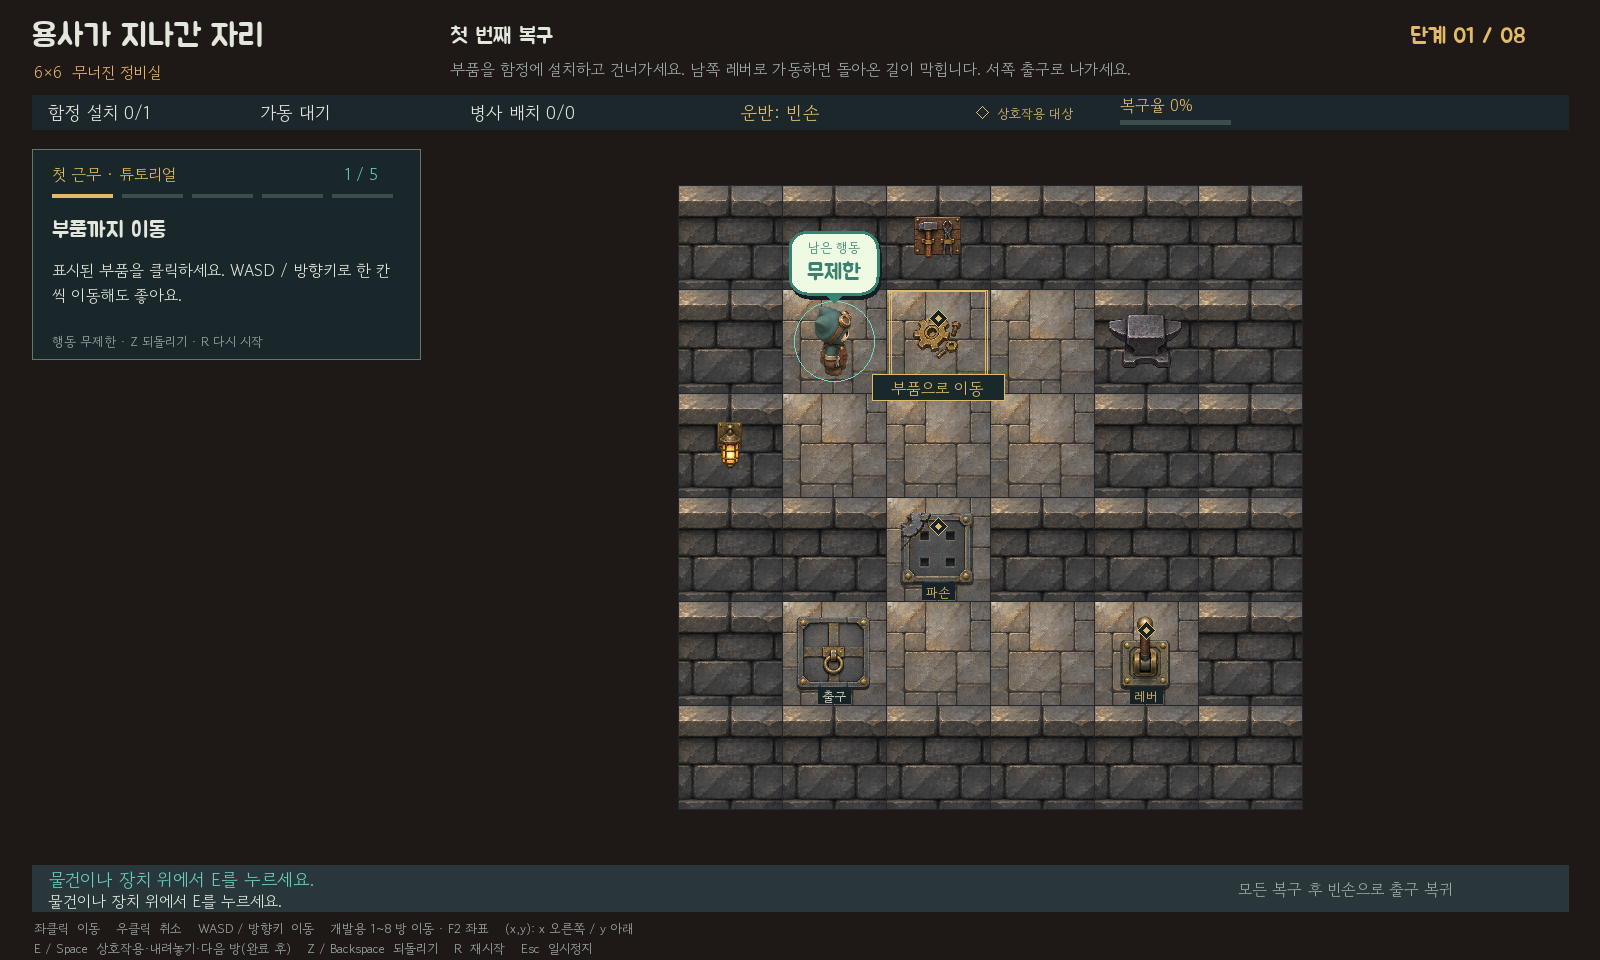
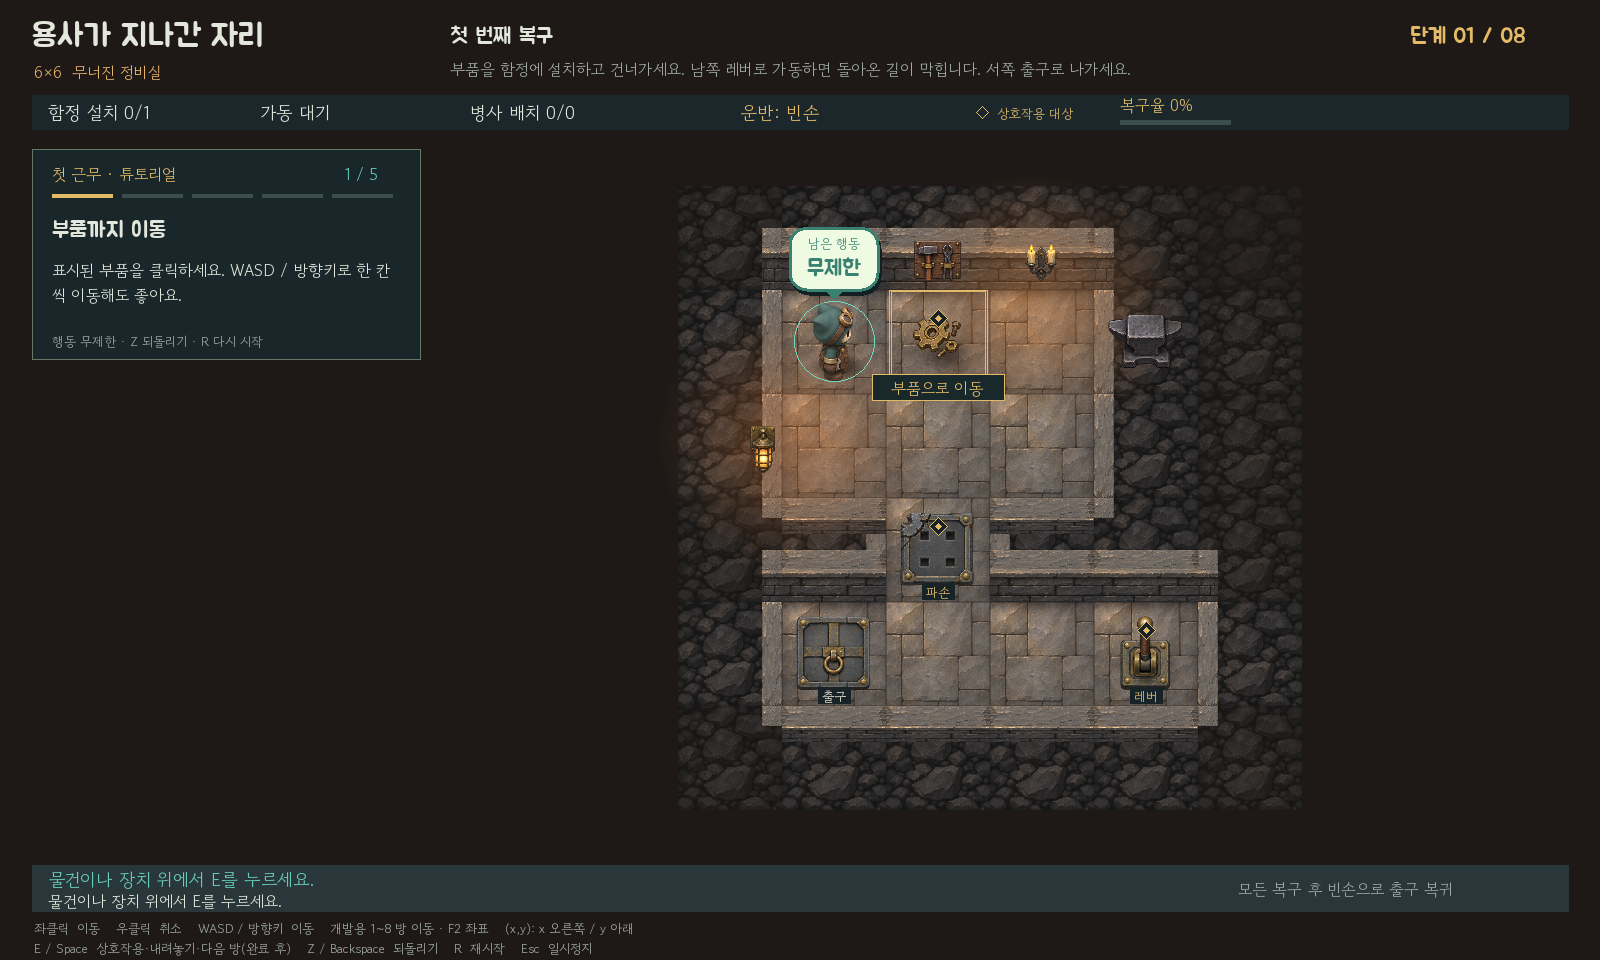
feat: 첫 정비실에 벽 단차와 등불 조명 적용

Changed region(s): [[0.4062, 0.1875, 0.8125, 0.8438]]

diff --git a/game/topdown_workshop.py b/game/topdown_workshop.py
@@ -1,0 +1,131 @@
+"""정비실의 벽 단차, 윤곽과 국소 조명을 그린다."""
+
+from ctypes import byref, c_int
+from math import cos, pi, sin
+
+import pico2d.pico2d as p
+
+from game.layout import HEIGHT
+
+
+_RING = tuple((cos(index * pi / 8), sin(index * pi / 8)) for index in range(16))
+
+
+def radial_layer(x, y, width, height, color, alpha):
+    """중심에서 가장자리로 옅어지는 타원형 빛과 그림자를 같은 방식으로 그린다."""
+    vertices = [p.SDL_Vertex(p.SDL_FPoint(x, HEIGHT - y), p.SDL_Color(*color, alpha), p.SDL_FPoint())]
+    indices = []
+    count = len(_RING)
+    for ring, (radius, strength) in enumerate(((.35, .74), (.68, .30), (1, 0))):
+        start = 1 + ring * count
+        tint = p.SDL_Color(*color, round(alpha * strength))
+        for index, (dx, dy) in enumerate(_RING):
+            vertices.append(p.SDL_Vertex(p.SDL_FPoint(x + width * radius * dx, HEIGHT - y + height * radius * dy),
+                                         tint, p.SDL_FPoint()))
+            current = start + index
+            following = start + (index + 1) % count
+            if ring == 0:
+                indices.extend((0, current, following))
+            else:
+                indices.extend((current - count, current, following, current - count, following, following - count))
+    mesh = (p.SDL_Vertex * len(vertices))(*vertices)
+    triangles = (c_int * len(indices))(*indices)
+    p.SDL_RenderGeometry(p.renderer, None, mesh, len(vertices), triangles, len(indices))
+
+
+def panel(art, name, left, bottom, width, height):
+    art.draw(name, left + width / 2, bottom + height / 2, width, height_scale=height / width)
+
+
+def wall_rim(art, board, pos, floors):
+    """바닥과 만나는 면은 밝은 윗돌과 어두운 벽면으로 표시한다."""
+    x, y = pos
+    size = board.cell_size
+    sx, sy = board.screen(pos)
+    left, bottom = sx - size / 2, sy - size / 2
+    rim = round(size * .19)
+    face = round(size * (.40 if y == 0 else .31))
+    north, west, east, south = ((x, y - 1) in floors, (x - 1, y) in floors,
+                                 (x + 1, y) in floors, (x, y + 1) in floors)
+    if west:
+        panel(art, "workshop_cap", left, bottom, rim, size)
+    if east:
+        panel(art, "workshop_cap", left + size - rim, bottom, rim, size)
+    if north:
+        panel(art, "workshop_face", left, bottom + size - rim - face * .5, size, face * .5)
+        panel(art, "workshop_cap", left, bottom + size - rim, size, rim)
+        p.draw_line(left, bottom + size - 1, left + size - 1, bottom + size - 1, 127, 116, 105, 125)
+    if south:
+        panel(art, "workshop_face", left, bottom, size, face)
+        panel(art, "workshop_cap", left, bottom + face, size, rim)
+        p.draw_line(left, bottom + face, left + size - 1, bottom + face, 201, 178, 143, 110)
+    for direction, side in ((-1, west), (1, east)):
+        if side:
+            continue
+        corner = left if direction < 0 else left + size - rim
+        if not south and (x + direction, y + 1) in floors:
+            panel(art, "workshop_face", corner, bottom, rim, face)
+            panel(art, "workshop_cap", corner, bottom + face, rim, rim)
+        if not north and (x + direction, y - 1) in floors:
+            panel(art, "workshop_cap", corner, bottom + size - rim, rim, rim)
+
+
+def floor_shadows(center, size, north, west, east):
+    sx, sy = center
+    left, right, top, bottom = sx - size / 2, sx + size / 2, sy + size / 2, sy - size / 2
+    depth = round(size * .16)
+    for offset in range(depth):
+        alpha = round(106 * (1 - offset / depth) ** 2)
+        if north:
+            p.draw_line(left, top - 1 - offset, right - 1, top - 1 - offset, 12, 9, 13, alpha)
+        if west:
+            p.draw_line(left + offset, bottom, left + offset, top - 1, 12, 9, 13, alpha // 2)
+        if east:
+            p.draw_line(right - 1 - offset, bottom, right - 1 - offset, top - 1, 12, 9, 13, alpha // 3)
+
+
+def draw_terrain(art, board, level, exit_ready):
+    size = board.cell_size
+    floors = {(x, y) for y in range(level.height) for x in range(level.width) if (x, y) not in level.walls}
+
+    previous = c_int()
+    p.SDL_GetRenderDrawBlendMode(p.renderer, byref(previous))
+    p.SDL_SetRenderDrawBlendMode(p.renderer, p.SDL_BLENDMODE_BLEND)
+    try:
+        for y in range(level.height):
+            for x in range(level.width):
+                pos = x, y
+                center = board.screen(pos)
+                if pos in floors:
+                    art.draw("workshop_floor", *center, size)
+                    floor_shadows(center, size, (x, y - 1) not in floors, (x - 1, y) not in floors,
+                                  (x + 1, y) not in floors)
+                    sx, sy = center
+                    p.draw_rectangle(sx - size / 2, sy - size / 2, sx + size / 2 - 1, sy + size / 2 - 1,
+                                     31, 24, 26, 68)
+                else:
+                    distance = min((abs(x - fx) + abs(y - fy) for fx, fy in floors), default=3)
+                    art.draw("workshop_rock", *center, size, opacity=max(.24, 1 - .32 * (distance - 1)))
+                    wall_rim(art, board, pos, floors)
+        # 뒤쪽 촛불과 왼쪽 등불이 복구 통로를 비춘다.
+        radial_layer(*board.screen((2.9, .63)), size * 1.53, size * 1.28, (241, 139, 60), 86)
+        radial_layer(*board.screen((.65, 1.94)), size * 1.40, size * 1.33, (235, 128, 53), 83)
+        if exit_ready:
+            radial_layer(*board.screen(level.exit), size * .84, size * .72, (54, 191, 141), 83)
+    finally:
+        p.SDL_SetRenderDrawBlendMode(p.renderer, previous.value)
+
+
+def draw_shadows(board, player, objects):
+    size = board.cell_size
+    previous = c_int()
+    p.SDL_GetRenderDrawBlendMode(p.renderer, byref(previous))
+    p.SDL_SetRenderDrawBlendMode(p.renderer, p.SDL_BLENDMODE_BLEND)
+    try:
+        for pos in objects:
+            sx, sy = board.screen(pos)
+            radial_layer(sx + size * .05, sy - size * .13, size * .36, size * .22, (12, 9, 11), 134)
+        sx, sy = board.screen(player)
+        radial_layer(sx + size * .04, sy - size * .24, size * .28, size * .14, (12, 9, 11), 191)
+    finally:
+        p.SDL_SetRenderDrawBlendMode(p.renderer, previous.value)

diff --git a/game/topdown.py b/game/topdown.py
@@ -8,6 +8,7 @@ import pico2d.pico2d as p
 
 from game.levels import DIRECTIONS
 from game.themes import scene_for
+from game import topdown_workshop
 
 
 ASSET_ROOT = Path(__file__).resolve().parents[1] / "assets" / "topdown_v2"
@@ -149,6 +150,8 @@ def draw_board(view, game, board, now, beam_segments, powered, rotations, gate_s
     ready = (state.installed == level.traps and (not level.traps or state.active)
              and state.soldiers == level.posts and state.carrying is None)
     entries = device_entries(game, gate_statuses, powered, ready, view.plate_depths)
+    workshop = level.id == "stage_01"
+    player = view.player_position(state.player, now)
     view.hit_regions.clear()
     view.hit_masks.clear()
     view.gate_hit_masks.clear()
@@ -156,22 +159,32 @@ def draw_board(view, game, board, now, beam_segments, powered, rotations, gate_s
     view.plate_hit_masks.clear()
     view.action_badge_bounds = None
 
-    for y in range(level.height):
-        for x in range(level.width):
-            pos = x, y
-            sx, sy = board.screen(pos)
-            wall = pos in level.walls
-            art.draw(f"{'wall' if wall else 'floor'}_{stage}", sx, sy, size)
-            rectangle(sx - half, sy - half, sx + half, sy + half, (33, 39, 44), False)
+    if workshop:
+        topdown_workshop.draw_terrain(art, board, level, ready)
+        raised_objects = [pos for pos, (sprite, _, _) in entries.items() if sprite.startswith("lever_")]
+        topdown_workshop.draw_shadows(board, player, [*raised_objects, *state.items])
+    else:
+        for y in range(level.height):
+            for x in range(level.width):
+                pos = x, y
+                sx, sy = board.screen(pos)
+                wall = pos in level.walls
+                art.draw(f"{'wall' if wall else 'floor'}_{stage}", sx, sy, size)
+                rectangle(sx - half, sy - half, sx + half, sy + half, (33, 39, 44), False)
     if scene:
         for mount in scene.get("wall_mounts", ()):
             key = mount["sprite"].rsplit("_", 1)[0]
             if key in DECOR:
-                art.draw(DECOR[key], *board.screen(tuple(mount["cell"])), size * .46)
+                x, y = mount["cell"]
+                if workshop:
+                    x, y = (x + .32, y + .04) if x == 0 else (x, y + .23)
+                art.draw(DECOR[key], *board.screen((x, y)), size * .46)
         for decoration in scene["decorations"]:
             key = decoration["sprite"]
             if key in DECOR:
                 art.draw(DECOR[key], *board.screen(tuple(decoration["cell"])), size * .72)
+    if workshop and (3, 0) in level.walls:
+        art.draw("candle_sconce", *board.screen((3, .24)), size * .38)
 
     for pos, (sprite, _, _) in entries.items():
         sx, sy = board.screen(pos)
@@ -199,18 +212,20 @@ def draw_board(view, game, board, now, beam_segments, powered, rotations, gate_s
         sx, sy = board.screen(position)
         art.draw("rubble", sx, sy + min(height, 24) * size / 256, size * .68)
 
-    px, py = board.screen(view.player_position(state.player, now))
+    px, py = board.screen(player)
     p.draw_circle(px, py, round(size * .38), *TEAL)
     facing = FACINGS[view.facing]
     pose = "carry" if state.carrying else (
         "walk_a" if now - view.motion[2] < .09 else "walk_b") if view.motion else "idle"
     tired = view.fatigue(game)
-    art.draw(f"worker_{facing}_{pose}", px, py, size * .68, height_scale=view.worker_height(tired, now))
+    art.draw(f"worker_{facing}_{pose}", px, py, size * (.75 if workshop else .68),
+             height_scale=view.worker_height(tired, now))
     if state.carrying:
         dx, dy = DIRECTIONS[facing]
         art.draw(ITEMS[state.carrying], px + dx * size * .27, py - dy * size * .27, size * .32)
-    view.place_action_badge(game, px, py + size * .29, now)
-    view.worker_effort((px - size * .3, py - size * .27, px + size * .3, py + size * .29), tired, now)
+    head = py + size * (.35 if workshop else .29)
+    view.place_action_badge(game, px, head, now)
+    view.worker_effort((px - size * .3, py - size * .27, px + size * .3, head), tired, now)
 
     for start, end in beam_segments:
         x1, y1 = board.screen(source_nozzle(level, start, end))

diff --git a/README.md b/README.md
@@ -60,6 +60,8 @@
 
 **기본 플레이 화면은 위에서 내려다보는 정사각 격자입니다.** 여덟 방의 지형과 수리공, 장치를 [새 탑다운 에셋](assets/topdown_v2/README.md)으로 표시합니다. `python main.py --stage 1`은 첫 방부터, `python main.py --isometric`은 기존 사선 화면으로 시작합니다. [탑다운 1번 방](docs/screenshots/topdown-v2/stage-01.png) · [8번 방](docs/screenshots/topdown-v2/stage-08.png) · [8번 방 광선 연결](docs/screenshots/topdown-v2/stage-08-powered.png).
 
+1번 정비실은 통로를 따라 벽의 윗돌과 앞면을 나눠 그립니다. 등불은 가까운 바닥을 비추고, 함정을 가동하면 열린 출구에 청록빛이 번집니다. [함정을 가동한 1번 방](docs/screenshots/topdown-v2/stage-01-activated.png).
+
 **새 기믹 4종을 적용한 프로토타입 0.9**입니다. 1번 6×6, 2·4번 7×7, 3·5·6·7번 8×8, 8번 10×10입니다. 1600×960 화면에서 클릭·키보드로 이동하며 잔해 밀기는 방향키/WASD를 사용합니다. 모든 방의 최단 풀이를 검증했으며 사람의 초회 플레이 시간과 체감 난이도는 아직 측정하지 않았습니다.
 
 7번 [인부와 보물창고](docs/screenshots/compact-rooms/stage-07.png), 8번 [왕좌실 공동 복구](docs/screenshots/compact-rooms/stage-08.png)를 플레이할 수 있습니다. [현재 배치 안내](docs/방크기조정.md)를 확인하세요. 타이틀에서 숫자키 `7`, `8`로 바로 시작할 수 있습니다.

diff --git a/assets/topdown_v2/README.md b/assets/topdown_v2/README.md
@@ -1,12 +1,13 @@
 # 탑다운 플레이 에셋
 
-화면의 수평·수직 축에 맞춘 정사각 격자용 스프라이트입니다. 내장 ImageGen으로 원화 다섯 장을 만들고, 아틀라스 다섯 장에 스프라이트 80개를 담았습니다.
+화면의 수평·수직 축에 맞춘 정사각 격자용 스프라이트입니다. 내장 ImageGen으로 원화 여섯 장을 만들고, 아틀라스 여섯 장에 스프라이트 84개를 담았습니다.
 
 - 지형 16개는 여덟 방의 이동 바닥과 막힌 벽을 구분합니다.
 - 장치 16개는 함정, 출구, 레버, 작업대, 발판, 연결문, 초소, 잔해의 상태를 표현합니다.
 - 소품 16개는 운반물, 투입·배출구, 마력 장치, 윈치, 인부와 방 장식을 포함합니다.
 - 수리공 16프레임은 네 방향마다 대기, 걷기 두 프레임, 운반 자세를 제공합니다.
 - 벽 장식과 소품 16개는 석관, 촛대, 화로, 펌프, 현수막, 등불, 공구 걸이 등을 표현합니다.
+- 1번 정비실의 바닥, 윗돌, 벽 앞면, 바깥 암석 4개를 따로 그려 통로의 높이를 표현합니다. 벽 윤곽과 등불 조명은 [Dungeon and Puzzles의 플레이 화면](https://nekolyst.com/games/dungeon-and-puzzles/)을 참고했습니다.
 
 거울의 반사면과 화살표는 생성한 회전대 위에 현재 반사 각도로 그립니다. [원화 프롬프트](source/prompts.json)에 각 시트의 셀 순서와 수리공 참조를 기록했습니다.
 
